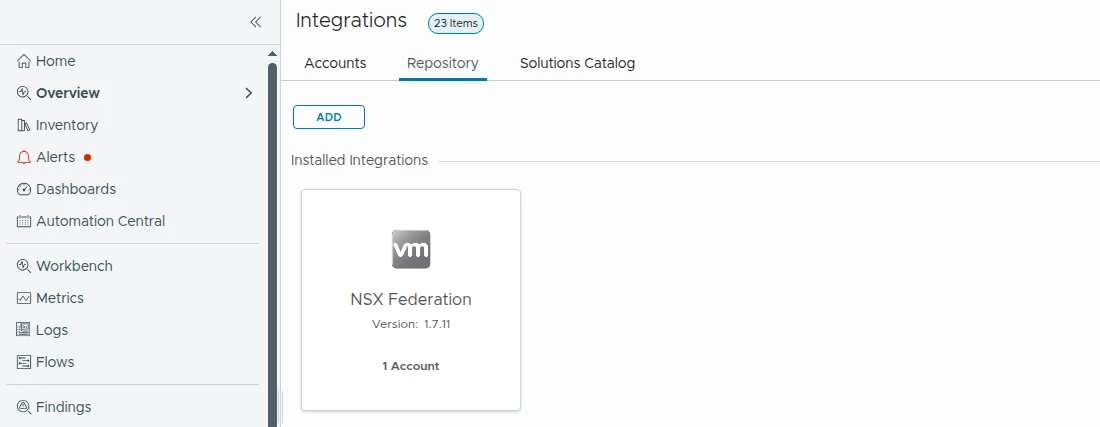
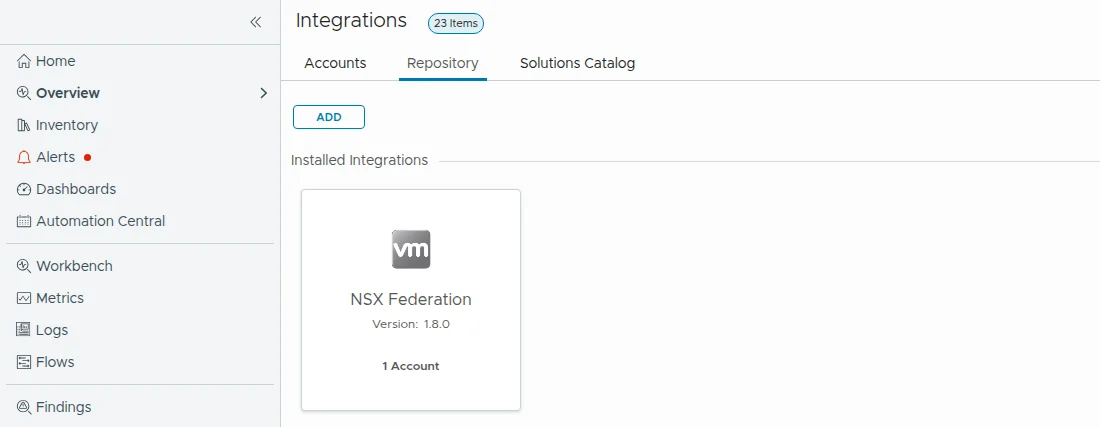
NSX Federation part 2: pack 1.8.0, switchover readiness, Location Matrix and Switchover Readiness dashboards
Claude-Session: https://claude.ai/code/session_01SphbqC1vQAcUKnbf7d1FJA

Changed region(s): [[0.2164, 0.1522, 0.2782, 1.0]]

diff --git a/content/posts/nsx-federation-management-pack-install/index.md b/content/posts/nsx-federation-management-pack-install/index.md
@@ -1,7 +1,7 @@
 ---
 title: "Monitoring NSX Federation in VCF Operations, part 2: building, installing and what the pack captures"
 date: 2026-11-18
-description: "Part 2 of the NSX Federation management pack for VCF Operations 9.1.1: the adapter built with the Integration SDK, the install step by step with screenshots (HTTPS registry, certificate trust on the cloud proxy, unsigned pack, account), and what the pack monitors on a two-location lab federation: 72 objects, 501 metrics, 71 alert definitions, four custom groups, three dashboards, five views and a report. It also covers a Global Manager switchover and how to send the alerts by email."
+description: "Part 2 of the NSX Federation management pack for VCF Operations 9.1.1: the adapter built with the Integration SDK, the install step by step with screenshots (HTTPS registry, certificate trust on the cloud proxy, unsigned pack, account), and what the pack monitors on a two-location lab federation: 72 objects, 505 metrics, 71 alert definitions, four custom groups, five dashboards, five views and a report. It also covers a Global Manager switchover and how to send the alerts by email."
 summary: "The adapter collects a two-location NSX 9.1 Federation in 10 to 25 seconds. Running it inside VCF Operations 9.1.1 takes an image registry served over HTTPS, a cloud proxy that trusts the registry certificate, and the setting that allows an unsigned pack. This post documents each install step with screenshots, lists what the pack monitors (objects, metrics, alerts, groups, dashboards, views), tests a Global Manager switchover, and shows how to send the alerts by email."
 tags: ["VCF 9.1.1", "NSX Federation", "VCF Operations", "Management pack", "Integration SDK", "Lab"]
 categories: ["Field notes"]
@@ -14,7 +14,7 @@ params:
 
 [Part 1](/posts/nsx-federation-management-pack-design/) ended with a design and no code. Writing the adapter took less time than installing it: three separate checks in VCF Operations stood between the `.pak` file and a working collection. This post covers the build, the install in VCF Operations 9.1.1 with screenshots, what the pack monitors (objects, metrics, alerts, groups, dashboards, views), a Global Manager switchover, and how to send the alerts by email.
 
-The pack described here is version 1.7.11, and its source is on GitHub: [sorinplaton/vcf-ops-nsx-federation-mp](https://github.com/sorinplaton/vcf-ops-nsx-federation-mp). [docs/FEATURES.md](https://github.com/sorinplaton/vcf-ops-nsx-federation-mp/blob/v1.7.11/docs/FEATURES.md) lists every object type, metric, property and alert of the pack, with the condition and the recommendation of each alert.
+The pack described here is version 1.8.0, and its source is on GitHub: [sorinplaton/vcf-ops-nsx-federation-mp](https://github.com/sorinplaton/vcf-ops-nsx-federation-mp). [docs/FEATURES.md](https://github.com/sorinplaton/vcf-ops-nsx-federation-mp/blob/v1.8.0/docs/FEATURES.md) lists every object type, metric, property and alert of the pack, with the condition and the recommendation of each alert.
 
 ## The lab
 
@@ -28,7 +28,7 @@ The standby was deployed from the same 9.1.1 appliance as the active Global Mana
 
 The figure below shows the path from the source code to the adapter running on the cloud proxy.
 
-![Build and deployment of the pack: the GitHub repository is cloned on the jump host, the tooling container builds the image and the .pak, the image goes to the HTTPS registry on the jump host, the .pak is installed in VCF Operations with the unsigned PAK switch on, the account deploys the adapter on the cloud proxy, which pulls the image by digest through the lab router, reads the Global Managers and Local Managers over their REST API, and sends the data to the analytics node](/images/nsx-federation-mp/build-topology.svg?v=6)
+![Build and deployment of the pack: the GitHub repository is cloned on the jump host, the tooling container builds the image and the .pak, the image goes to the HTTPS registry on the jump host, the .pak is installed in VCF Operations with the unsigned PAK switch on, the account deploys the adapter on the cloud proxy, which pulls the image by digest through the lab router, reads the Global Managers and Local Managers over their REST API, and sends the data to the analytics node](/images/nsx-federation-mp/build-topology.svg?v=7)
 
 ### Jump host prerequisites
 
@@ -74,7 +74,7 @@ One account monitors one federation. A listed Global Manager that answers for an
 
 An SDK pack is not self-contained. The `.pak` file carries the object definitions and a pointer to a container image. The cloud proxy pulls that image from a registry when the adapter instance starts.
 
-`mp-build` builds the pack and pushes the adapter image to the registry, so the registry of install step 1 must be running, and trusted by the jump host's Docker, before the build. The full command is in step 4 of [docs/INSTALL.md](https://github.com/sorinplaton/vcf-ops-nsx-federation-mp/blob/v1.7.11/docs/INSTALL.md). When the registry address is given as `host:port`, `mp-build` writes Docker Hub into the pack instead of that address. A short script, `tools/repack.py`, rewrites two values, `REGISTRY` and `REPOSITORY`, in the `.conf` file inside `adapter.zip`:
+`mp-build` builds the pack and pushes the adapter image to the registry, so the registry of install step 1 must be running, and trusted by the jump host's Docker, before the build. The full command is in step 4 of [docs/INSTALL.md](https://github.com/sorinplaton/vcf-ops-nsx-federation-mp/blob/v1.8.0/docs/INSTALL.md). When the registry address is given as `host:port`, `mp-build` writes Docker Hub into the pack instead of that address. A short script, `tools/repack.py`, rewrites two values, `REGISTRY` and `REPOSITORY`, in the `.conf` file inside `adapter.zip`:
 
 *Found in: the `.conf` file inside `adapter.zip` in the `.pak`, rewritten by `tools/repack.py` on the jump host.*
 
@@ -86,7 +86,7 @@ DIGEST=sha256:dd80...b4cb
 
 ## Install the pack
 
-The install has five steps, given here in the order that works. The failures met in the lab are kept as symptoms under the step that prevents them. The same steps, as a checklist with every command and the machine it runs on, are in [docs/INSTALL.md](https://github.com/sorinplaton/vcf-ops-nsx-federation-mp/blob/v1.7.11/docs/INSTALL.md).
+The install has five steps, given here in the order that works. The failures met in the lab are kept as symptoms under the step that prevents them. The same steps, as a checklist with every command and the machine it runs on, are in [docs/INSTALL.md](https://github.com/sorinplaton/vcf-ops-nsx-federation-mp/blob/v1.8.0/docs/INSTALL.md).
 
 ### Step 1: serve the registry over HTTPS
 
@@ -153,15 +153,15 @@ The install turns the switch on first and off again after:
 4. Upload, accept the warning about the unsigned file, and let the install finish.
 5. Back in the admin console, deactivate unsigned PAK installation again. The console refuses while the install is still running.
 
-The repository also holds a scripted version of these steps, `install/upi.sh` and `install/install_unsigned.sh`; [docs/INSTALL.md](https://github.com/sorinplaton/vcf-ops-nsx-federation-mp/blob/v1.7.11/docs/INSTALL.md) describes it.
+The repository also holds a scripted version of these steps, `install/upi.sh` and `install/install_unsigned.sh`; [docs/INSTALL.md](https://github.com/sorinplaton/vcf-ops-nsx-federation-mp/blob/v1.8.0/docs/INSTALL.md) describes it.
 
 After the install, the adapter kind `NSXFederation` and the solution `iSDK_NSXFederation` appear in VCF Operations. The pack shows under Administration, Integrations, Repository with its version:
 
-![Administration, Integrations, Repository: the NSX Federation pack, version 1.7.11, with one account](/images/nsx-federation-mp/ops-repository-pack.webp?v=4)
+![Administration, Integrations, Repository: the NSX Federation pack, version 1.8.0, with one account](/images/nsx-federation-mp/ops-repository-pack.webp?v=5)
 
 ### Step 4: create the account
 
-Create the account under Administration, Integrations, Accounts, as an account of the type NSX Federation, with the cloud proxy as its collector. It takes one or two Global Manager addresses and a credential. With both addresses, the pack follows the active role when the Global Managers switch over. The other settings are optional: the security policies whose rules become objects, how the pack works with the built-in NSX integration (links and alarm alerts, both automatic by default), and the deletion of objects that left NSX (off by default). [docs/OPERATIONS.md](https://github.com/sorinplaton/vcf-ops-nsx-federation-mp/blob/v1.7.11/docs/OPERATIONS.md) describes each setting.
+Create the account under Administration, Integrations, Accounts, as an account of the type NSX Federation, with the cloud proxy as its collector. It takes one or two Global Manager addresses and a credential. With both addresses, the pack follows the active role when the Global Managers switch over. The other settings are optional: the security policies whose rules become objects, how the pack works with the built-in NSX integration (links and alarm alerts, both automatic by default), and the deletion of objects that left NSX (off by default). [docs/OPERATIONS.md](https://github.com/sorinplaton/vcf-ops-nsx-federation-mp/blob/v1.8.0/docs/OPERATIONS.md) describes each setting.
 
 Validate the connection and accept the Global Manager certificates when the account is saved. The certificate check has two modes: "enforce" stops the collection of a manager whose certificate does not match or that has no trusted certificate on record, and "report" collects and raises an alert. The default is "enforce": without an accepted certificate the managers are not collected.
 
@@ -197,7 +197,7 @@ A change in how the adapter identifies an object creates a new object. The old o
 
 ## What the pack monitors
 
-The complete list of objects, metrics and alerts is in [FEATURES.md](https://github.com/sorinplaton/vcf-ops-nsx-federation-mp/blob/v1.7.11/docs/FEATURES.md).
+The complete list of objects, metrics and alerts is in [FEATURES.md](https://github.com/sorinplaton/vcf-ops-nsx-federation-mp/blob/v1.8.0/docs/FEATURES.md).
 
 ### Objects
 
@@ -205,10 +205,10 @@ The pack defines 15 object types. In the lab it creates 72 objects of 14 types. 
 
 | Object type | Count in the lab | Examples of what is collected |
 | --- | --- | --- |
-| Federation | 1 | Active Global Managers, locations healthy and collected, RTEP rollups, API errors, managers over the call budget |
-| Global Manager | 2 | Standby in sync and how long it has been out of sync, entries left to send, last full sync, version against the active Global Manager, upgrade status, backup state, open alarms, days to the first certificate expiry |
+| Federation | 1 | Active Global Managers, locations healthy and collected, switchover readiness, RTEP rollups, API errors, managers over the call budget |
+| Global Manager | 2 | Ready or not to take over as the active Global Manager, with the reasons, standby in sync and how long it has been out of sync, entries left to send, last full sync, version against the active Global Manager, upgrade status, backup state, open alarms, days to the first certificate expiry |
 | Manager node | 4 | Online state of each Global Manager and Local Manager node |
-| Location | 2 | Connection to the Global Manager, replication flows, latency and sync queues, last seen by the Global Manager, onboarding status, collector reachability and time since the last collection, nodes online, full sync failures and duration, inter-site BGP sessions, alarms, version, upgrade status |
+| Location | 2 | Healthy or not, connection to the Global Manager, replication flows, latency and sync queues, last seen by the Global Manager, onboarding status, collector reachability and time since the last collection, nodes online, full sync failures and duration, inter-site BGP sessions, alarms, version, upgrade status |
 | Sync channel | 9 | Connection state between two managers |
 | Edge cluster | 2 | Inter-site status, members, RTEP addresses |
 | Edge node | 4 | RTEP tunnels, inter-site BGP sessions |
@@ -246,7 +246,7 @@ The metrics sit in groups, as in the built-in integrations: Sync, Connectivity, 
 
 ![Metrics tab of Global Manager gm-site-a: the groups Alarms, Certificates, Cluster, Connectivity and Sync, and the chart of "Standby sync healthy (1 = in sync)" at 1](/images/nsx-federation-mp/ops-metric-groups.webp)
 
-Twenty metrics are flagged as key indicators, up to five per object type: the active Global Managers and the share of healthy locations on the federation, the offline nodes and the standby sync on a Global Manager, the connection and full sync of a location, BGP, drops and the share of packets dropped on a tunnel, and so on. VCF Operations lists them first in the summary of the object:
+Twenty-two metrics are flagged as key indicators, up to five per object type: the active Global Managers, the share of healthy locations and the switchover readiness on the federation, the offline nodes and the standby sync on a Global Manager, the health, connection and full sync of a location, BGP, drops and the share of packets dropped on a tunnel, and so on. VCF Operations lists them first in the summary of the object:
 
 ![Summary of gm-site-a: the open backup alert and, on the right, the key indicators "Nodes offline 0" and "Standby sync healthy (1 = in sync) 1"](/images/nsx-federation-mp/ops-key-attributes.webp)
 
@@ -258,14 +258,14 @@ Seven figures cover the whole federation, on the federation object: locations he
 
 Each location also carries what the Location Manager page of NSX shows for it: the state of its three replication flows with the Global Manager, when the Global Manager last saw it, the latency, how full its sync queues are, and its onboarding status. The pack makes the same calls as that page on the active Global Manager. The replication flows come from `GET /api/v1/federation/replication/gm/sites/<site-id>/status`, whose round-trip time field NSX 9.1.1 leaves empty. The "Latest Latency" column of the page comes from another call, `GET /global-manager/api/v1/observability/flow-details`, which returns, for each direction between the Global Manager and a location, the latency NSX measured and the current and maximum size of its sync queues. The pack keeps the higher latency of the two directions and compares it with the maximum RTT set for the location in NSX (250 ms by default). For the queues, it reports how full the fullest one is, as a percentage. NSX measures no latency between the two Global Managers, and its own page shows NA there.
 
-The table below gives the coverage of each object type. The Metrics column counts the metric keys defined for the type. Not every object sends every key (only policy realizations carry counters, for example), so the column multiplied by the object counts does not give 501.
+The table below gives the coverage of each object type. The Metrics column counts the metric keys defined for the type. Not every object sends every key (only policy realizations carry counters, for example), so the column multiplied by the object counts does not give 505.
 
 | Object type | Metrics | Alert definitions | Dashboard |
 | --- | --- | --- | --- |
-| Federation | 28 | 9 | Federation Overview |
-| Global Manager | 14 | 22 | Federation Overview |
+| Federation | 29 | 9 | Federation Overview, Location Matrix, Switchover Readiness |
+| Global Manager | 15 | 22 | Federation Overview, Switchover Readiness |
 | Manager node | 1 | None, covered by the cluster alert of its Global Manager or location | Related objects only |
-| Location | 23 | 24 | Federation Overview |
+| Location | 24 | 24 | Federation Overview, Location Matrix |
 | Sync channel | 1 | 1 | Inter-site Connectivity |
 | Edge cluster | 4 | 1 | Inter-site Connectivity |
 | Edge node | 4 | 1 | Inter-site Connectivity |
@@ -323,7 +323,7 @@ Each alert also sets which badge it lowers and how fast it reacts:
 - **Badge.** Fourteen alerts lower the Risk badge instead of Health: both backup alerts, both certificate expiry alerts, the certificate not trusted, no standby, the release mismatch, the call budget, the data gaps, the slow or throttled collection, the Global Managers on different versions, the location ahead of the Global Manager and both upgrade alerts. These conditions cause trouble later, and Health is kept for what is broken now.
 - **Wait and cancel cycles.** The symptoms that can flap need two collection cycles, 10 minutes, to raise an alert and two to clear it: a replication flow in error; sync channel down; inter-site BGP sessions down and none established on the location; no inter-site session on the edge node; inter-site BGP down on the tunnel; dropped and blocked packets on a tunnel; latency to the Global Manager; Tier-0 BGP neighbor down; no prefixes received. A BGP flap, on a Tier-0 neighbor or on the inter-site session of a tunnel, is the exception: one session drop raises the alert at the next cycle, and the alert clears after two cycles, so a flap stays visible for 10 minutes. The data gaps and the slow collection also wait two cycles, and so do a full sync that did not complete and a stretched object that is not realized, so a sync or a change in progress raises nothing. The dynamic threshold, the standby sync and the throttling wait three. The outage symptoms clear after three cycles (see One alert for a location outage).
 - **Compliance subtype.** Six alerts carry the compliance subtype: no standby, both backup alerts, the Global Managers on different versions, and both release alerts of a location. The Compliance page of VCF Operations 9.1.1 shows a banner that the older Compliance feature is deprecated in VCF 9.1 and points to Security Posture Management, so the subtype only classifies the alerts.
-- **Thresholds.** Most symptoms test a state: a session down, a node offline, an object in error. Those that compare a metric with a number are listed in the [Thresholds table of FEATURES.md](https://github.com/sorinplaton/vcf-ops-nsx-federation-mp/blob/v1.7.11/docs/FEATURES.md#thresholds): the backup age (24 hours), the certificate expiry (30 and 7 days), the collection duration (4 minutes), the latency to the Global Manager (150 ms, or 80% and 100% of the maximum RTT set in NSX), and on RTEP tunnels the dropped packets (more than 1%, or 5% for Immediate, together with more than 10 per minute) and the blocked packets (more than 10 per minute). The drop alert needs both the share and the count: a fixed count alone means a lot on a quiet tunnel and nothing on a busy one. A VCF Operations policy can override a threshold without a new build: Policy Definition, edit the policy, Alerts and Symptoms, Symptom Definitions, select the symptom and change the value under Override Symptoms.
+- **Thresholds.** Most symptoms test a state: a session down, a node offline, an object in error. Those that compare a metric with a number are listed in the [Thresholds table of FEATURES.md](https://github.com/sorinplaton/vcf-ops-nsx-federation-mp/blob/v1.8.0/docs/FEATURES.md#thresholds): the backup age (24 hours), the certificate expiry (30 and 7 days), the collection duration (4 minutes), the latency to the Global Manager (150 ms, or 80% and 100% of the maximum RTT set in NSX), and on RTEP tunnels the dropped packets (more than 1%, or 5% for Immediate, together with more than 10 per minute) and the blocked packets (more than 10 per minute). The drop alert needs both the share and the count: a fixed count alone means a lot on a quiet tunnel and nothing on a busy one. A VCF Operations policy can override a threshold without a new build: Policy Definition, edit the policy, Alerts and Symptoms, Symptom Definitions, select the symptom and change the value under Override Symptoms.
 - **Dynamic threshold.** The tunnel traffic alert compares the receive and send rates with the range VCF Operations learns for each tunnel. The latency alert does the same with the round-trip time of each location, so a link that goes from 1 ms to 40 ms is reported long before it reaches 150 ms. Both need days of history before they can fire.
 
 Three alerts fire in the lab, from two definitions: the missing backup on both Global Managers, and a paused NSX upgrade on the Local Manager of site-a-wld01, whose upgrade coordinator holds a target version it has not applied. All three describe the lab correctly and count against Risk. The other definitions have nothing to report on this federation; the section Tests in the lab lists what was verified and how.
@@ -344,15 +344,17 @@ Some conditions without a definition still arrive as events: a federation alarm 
 
 ### Dashboards
 
-Three dashboards sit in a folder named "NSX Federation":
+Five dashboards sit in a folder named "NSX Federation":
 
 | Dashboard | Content |
 | --- | --- |
 | Federation Overview | Open alerts on the pack's objects; a list of the federation, the Global Managers and the locations; key values, properties and related objects of the selected one |
+| Location Matrix | One row per location with the checks that decide its health: connection to the Global Manager, collector reach, nodes offline, inter-site BGP, full sync, replication flows, latency, sync queue, backup, certificates, critical alarms, version; the federation figures; key values and properties of the selected location |
+| Switchover Readiness | The Global Managers with their mode, readiness, reachability, sync state, nodes offline, version and backup age; the federation figures; key values and properties of the selected Global Manager, with the reasons it cannot take over |
 | Inter-site Connectivity | Sync channels and edge nodes, RTEP tunnels, Tier-0 BGP neighbors; key values of the selected row |
 | Stretched Objects | Stretched gateways, segments and policies with their span; the realization of each object at each location |
 
-In every dashboard a list drives a scoreboard. In Federation Overview and Inter-site Connectivity, a click on a scoreboard value draws its trend.
+In every dashboard a list drives a scoreboard. In all of them except Stretched Objects, a click on a scoreboard value draws its trend.
 
 Federation Overview with gm-site-a selected. The scoreboard of a Global Manager starts with the standby sync, and the open alerts are the backup and the paused upgrade:
 
@@ -365,6 +367,14 @@ With the federation selected, the scoreboard ends with the federation rollups: l
 Inter-site Connectivity shows the rates of one RTEP tunnel:
 
 ![The Inter-site Connectivity dashboard: sync channels and edge nodes, RTEP tunnels, Tier-0 BGP neighbors and the rates of the selected RTEP tunnel](/images/nsx-federation-mp/ops-dashboard-connectivity.webp)
+
+Location Matrix, with site-a-wld03 selected. Both locations are healthy and the federation has a standby ready to take over:
+
+![The Location Matrix dashboard: the two locations with Healthy 1 and GM connection 1, the federation figures (2 locations, 2 healthy, 100%, RTEP BGP down 0, ready to take over 1), and the key values and properties of site-a-wld03](/images/nsx-federation-mp/ops-dashboard-matrix.webp)
+
+Switchover Readiness, with the standby gm-site-b selected. It is ready to take over, in sync, on the same version as the active Global Manager:
+
+![The Switchover Readiness dashboard: gm-site-a active and gm-site-b standby, the federation with ready to take over 1, and the key values and properties of gm-site-b with the readiness "ready"](/images/nsx-federation-mp/ops-dashboard-switchover.webp)
 
 Stretched Objects, with the segment fed-stretched selected:
 
@@ -416,6 +426,8 @@ A second, unrelated fault on the objects of the location in outage raises no ale
 ### The standby Global Manager
 
 Four metrics describe the standby: sync healthy (1 when in sync), entries left to send, minutes out of sync and hours since the last full sync. The active Global Manager carries them for all its standbys, and each standby carries its own sync state. A standby counts as in sync when NSX reports it in sync, or when a delta sync runs after a completed full sync. Any other state counts as out of sync. NSX 9.1.1 reports the normal state of a standby as ONGOING, together with a delta sync, a completed full sync and no entries left to send, so the status text alone cannot be the test. The alert "Standby Global Manager is not in sync" fires after three cycles and clears after two. In the lab the metric reads 1 with no entries left.
+
+Each standby also says whether it can take over as the active Global Manager now. It reads ready (1), or not ready (0) with the reasons in a property: not in sync, a cluster status other than STABLE, nodes offline, service groups not stable, a version different from the active Global Manager, an expired certificate, or an upgrade in progress, paused or pausing. When a value could not be read, for example when the collector cannot reach the standby or the active Global Manager reports no sync state for it, the metric is also 0 and the property says what is unknown. The metric is 1 only when the readiness is confirmed. The federation reads ready when one of its standbys does. No alert is attached to the readiness, since the conditions behind it already have their own alerts. In the lab, gm-site-b reads ready.
 
 ### Versions and upgrades
 
@@ -609,9 +621,9 @@ The 1,253 alert definitions and 2,047 symptom definitions on the lab's VCF Opera
 ## Sources
 
 - Lab: VCF 9.1.1, NSX 9.1.1 (Local Managers and Global Managers), VCF Operations 9.1.1. Build, install and tests from 17 to 20 November 2026.
-- Source of the pack: [github.com/sorinplaton/vcf-ops-nsx-federation-mp](https://github.com/sorinplaton/vcf-ops-nsx-federation-mp), tag [v1.7.11](https://github.com/sorinplaton/vcf-ops-nsx-federation-mp/tree/v1.7.11)
-- Install guide with a checklist: [docs/INSTALL.md](https://github.com/sorinplaton/vcf-ops-nsx-federation-mp/blob/v1.7.11/docs/INSTALL.md)
-- Objects, metrics and alerts of version 1.7.11: [docs/FEATURES.md](https://github.com/sorinplaton/vcf-ops-nsx-federation-mp/blob/v1.7.11/docs/FEATURES.md); account settings and sizing: [docs/OPERATIONS.md](https://github.com/sorinplaton/vcf-ops-nsx-federation-mp/blob/v1.7.11/docs/OPERATIONS.md)
+- Source of the pack: [github.com/sorinplaton/vcf-ops-nsx-federation-mp](https://github.com/sorinplaton/vcf-ops-nsx-federation-mp), tag [v1.8.0](https://github.com/sorinplaton/vcf-ops-nsx-federation-mp/tree/v1.8.0)
+- Install guide with a checklist: [docs/INSTALL.md](https://github.com/sorinplaton/vcf-ops-nsx-federation-mp/blob/v1.8.0/docs/INSTALL.md)
+- Objects, metrics and alerts of version 1.8.0: [docs/FEATURES.md](https://github.com/sorinplaton/vcf-ops-nsx-federation-mp/blob/v1.8.0/docs/FEATURES.md); account settings and sizing: [docs/OPERATIONS.md](https://github.com/sorinplaton/vcf-ops-nsx-federation-mp/blob/v1.8.0/docs/OPERATIONS.md)
 - [VCF Operations Integration SDK](https://vmware.github.io/vmware-vcf-operations-integration-sdk/introduction)
 - Broadcom KB [415279](https://knowledge.broadcom.com/external/article/415279/error-no-signature-found-on-pak-file-wh.html): "No signature found on PAK file" while installing a management pack
 - [Docker: verify repository client with certificates](https://docs.docker.com/engine/security/certificates/)
